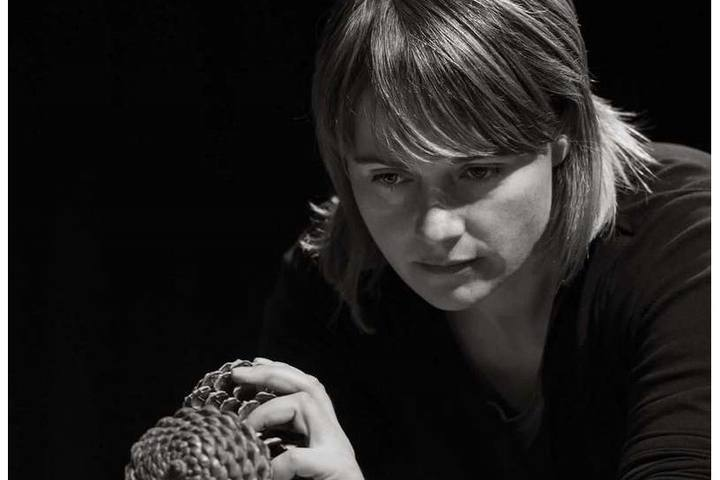
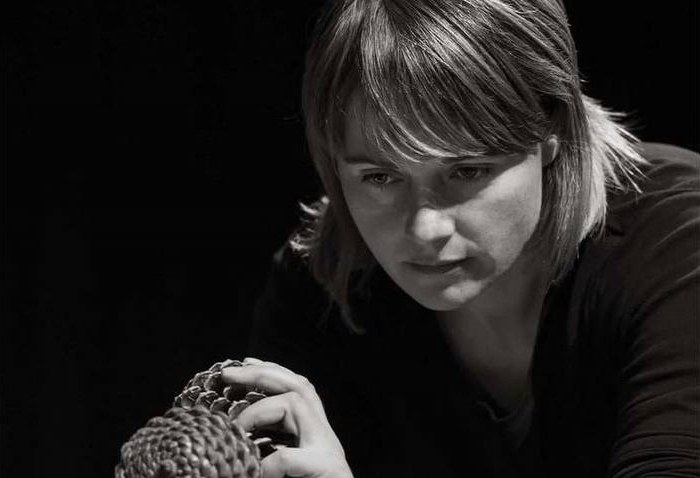
UNCSA students, Estampa visit details, crop Núria Andorrà photo
Claude-Session: https://claude.ai/code/session_01H2ftG38d2jBCx4GWJrLtrQ

diff --git a/index.html b/index.html
@@ -446,7 +446,7 @@ const S = {
   {s:"19:00",e:"",title:"Evening on your own",t:"free"}],
 "2027-01-09":[
   {s:"10:00",e:"14:00",title:"Movement & physical theatre workshop",who:"Los Informalls (Luis García & Pere Joseph)",v:"piconera",t:"guest",ar:"Los Informalls"},
-  {s:"16:30",e:"17:30",title:"Taller Estampa exhibition",v:"filmo",t:"outing",ar:"Taller Estampa"},
+  {s:"16:30",e:"17:30",title:"Taller Estampa exhibition: Dispersar els espectres",who:"Guided visit with Roc Albalat (Taller Estampa)",v:"filmo",t:"outing",ar:"Taller Estampa"},
   {s:"19:00",e:"20:15",title:"Performance: Dimanche",who:"Focus & Chaliwaté · Visual theatre without words",v:"lliure",t:"perf",link:["Show info","https://www.teatrelliure.com/en/dimanche"]}],
 "2027-01-10":[
   {s:"09:30",e:"11:00",title:"Gaudí: La Pedrera",v:"pedrera",t:"outing",link:["Web","https://www.lapedrera.com/en"]},
@@ -1229,7 +1229,7 @@ const WHATSAPP_GROUP = "https://chat.whatsapp.com/EJSfqA0xi3H3Pyi5Pe9Qmn?s=cl&p=
 const GROUP_PEOPLE = [
   {uni:"Colby College", people:[["Caleb A.","Creative writing"],["Clara G.","Music & mixed media"],["Freya H.","Painting, film, mixed media"],["James O.","Performance, theater, dance"]], ext:true},
   {uni:"Shenandoah University", people:[["Allee C.","Art education, visual arts"],["Andrew S.","Writing, acting"],["Elijah R.","Photography, visual arts"]]},
-  {uni:"UNC School of the Arts", people:[], tbc:3},
+  {uni:"UNC School of the Arts", people:[["Hattie","Design & production"],["Natalia","Dance"],["Ryan",""]]},
   {uni:"UNC Greensboro", people:[["Bernice T.",""]]},
 ];
 const FACULTY = [["Abigail Gómez","Shenandoah University"],["Betsy Towns","UNC School of the Arts"]];

diff --git a/sw.js b/sw.js
@@ -1,5 +1,5 @@
 // Offline support: the page is fetched fresh when online (so updates arrive), photos come from the cache
-const V="inter-20261120224230";
+const V="inter-20261120224750";
 const FILES=["./", "index.html", "manifest.webmanifest", "leaflet.js", "leaflet.css", "icon-180.png", "icon-192.png", "icon-512.png", "img/a-albert-quesada-katie-vickers.jpg", "img/a-ale.jpg", "img/a-catalina-girona.jpg", "img/a-darryl-eisden.jpg", "img/a-joaquin-jara.jpg", "img/a-los-informalls.jpg", "img/a-maria-sellares.jpg", "img/a-nuria-andorra.jpg", "img/a-frames-percussion.jpg", "img/a-neil-lorenzo.jpg", "img/a-nuria-guiu.jpg", "img/a-taller-estampa.jpg", "img/eyes-albert.jpg", "img/eyes-katie.jpg", "img/logo.png", "img/metro-map.jpg", "img/sala-reflexio.jpg", "img/v-batllo.jpg", "img/v-brujas.jpg", "img/v-caldera.jpg", "img/v-filmo.jpg", "img/v-joaquin.jpg", "img/v-lliure.jpg", "img/v-macba.jpg", "img/v-mercat.jpg", "img/v-pedrera.jpg", "img/v-piconera.jpg", "img/v-nuriaandorra.jpg", "img/v-neil.jpg", "img/v-auditori.jpg", "img/v-santam.jpg", "img/v-servei.jpg", "img/v-tapies.jpg", "img/v-visiva.jpg", "img/v-yugo.jpg"];
 self.addEventListener("install",e=>{ e.waitUntil(caches.open(V).then(c=>c.addAll(FILES)).then(()=>self.skipWaiting())); });
 self.addEventListener("activate",e=>{ e.waitUntil(caches.keys().then(ks=>Promise.all(ks.filter(k=>k!==V&&k!=="inter-tiles").map(k=>caches.delete(k)))).then(()=>self.clients.claim())); });
